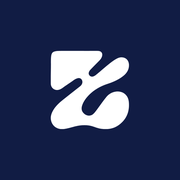
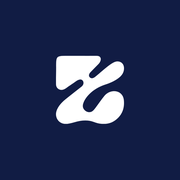
Add files via upload

diff --git a/styles.css b/styles.css
@@ -2205,3 +2205,44 @@ body[data-page="join"] { background: var(--navy); color: var(--white); }
 .mu-x:hover, .mu-x:focus-visible { opacity: .8; }
 @media (max-width: 800px) { .mu-tile { border-radius: 16px; } .mu-mail input { padding: 0 16px; } }
 #dash .tile:hover { background: var(--white); border-color: var(--navy); }
+
+/* ==========================================================================
+   Contrast pass. Every state pairs navy on light or white on navy. No honey on progress, no tinted labels over photos.
+   ========================================================================== */
+/* Ministries: rest is tint with navy text. Hover, focus and open are navy with white text (text colour is set on the parts too). */
+.mini { background: var(--honey-t); color: var(--navy); border: 1px solid var(--tint-line); }
+.mini:hover, .mini:focus-visible, .mini.on, .mini[aria-expanded="true"] { background: var(--navy); color: var(--white); border-color: var(--navy); }
+.mini:hover *, .mini:focus-visible *, .mini.on *, .mini[aria-expanded="true"] * { color: var(--white); }
+.mini[aria-expanded="true"] { border-width: 1px; }
+/* Close buttons: white disc, navy cross. Hover: pale grey disc, navy cross. */
+.mu-x, .close-pane, dialog .close, dialog#wl-modal .close { background: var(--white); color: var(--navy); border: 1px solid var(--navy); opacity: 1; }
+.mu-x:hover, .mu-x:focus-visible, .close-pane:hover, dialog .close:hover, dialog .close:focus-visible, dialog#wl-modal .close:hover { background: #e7e9f0; color: var(--navy); opacity: 1; }
+/* Progress: navy fill on a neutral light track. */
+.r-bar div, .wl-track, .r-bi .t { background: #e7e9f0; }
+.r-bar i, .wl-track i, .progress { background: var(--navy); }
+/* Avatar: white disc, navy initials. */
+.dash-avatar, #dash .dash-avatar { background: var(--white); color: var(--navy); }
+/* Tier labels sit directly on photos as plain white text. */
+.hs-card.tier .what { background: none; border: 0; border-radius: 0; padding: 0; color: var(--white); }
+/* Tags carry the Z shape: one square corner, the rest rounded. Buttons stay pills. Tags are never clickable. */
+.badge, details.facet > summary em, .tag-soon, .memo-tag, .sg-tag, .tag-z {
+  display: inline-block; background: var(--white); color: var(--navy); border: 1px solid var(--navy); border-radius: var(--shape);
+  padding: 4px 12px; font-size: var(--t-xs); font-weight: 600; letter-spacing: .02em; line-height: 1.4; text-transform: none;
+}
+.badge.paid { background: var(--white); }
+.tint .tag-soon, .plain-list > div .tag-soon { background: var(--white); }
+.hs-card .tag-soon, .ap-txt .tag-soon, .sg-sealed .tag-soon { background: var(--white); color: var(--navy); border-color: var(--white); }
+/* Waitlist page: lighter headline and caption, logo grows with the scroll and is full size by the middle. */
+.mu-count-row span { font-size: 13px; }
+.mu-core { --mw: calc(clamp(72px, 6.5vw, 104px) * (1 + 2.1 * min(var(--p) * 2, 1))); --mh: calc(var(--mw) * .19); }
+.mu-mark { width: var(--mw); max-width: calc(100vw - 80px); }
+/* Active tabs and filters stay navy with white text in every state. */
+.d-sub a.on, .d-sub a.on:hover, .d-sub a.on:focus-visible, .cats a.on, .cats a.on:hover, .cats a.on:focus-visible, a.on:hover, a.on:focus-visible { background: var(--navy); color: var(--white); }
+/* Waitlist scroll arrow: white disc, navy arrow, readable over the photo and over white. */
+.mu-down { display: grid; place-items: center; width: 48px; height: 48px; padding: 0; border-radius: 50%; background: var(--white); color: var(--navy); border: 1px solid var(--navy); }
+.mu-down:hover, .mu-down:focus-visible { background: var(--navy); color: var(--white); }
+/* Footer buttons: hover and focus are navy with white text for every variant. */
+.site-footer a.btn:hover, .site-footer a.btn:focus-visible, .site-footer a.btn.light:hover, .site-footer a.btn.light:focus-visible { background: var(--navy); border-color: var(--navy); color: var(--white) !important; }
+
+.sr { position: absolute; width: 1px; height: 1px; overflow: hidden; clip: rect(0 0 0 0); white-space: nowrap; }
+.sg-tag, .memo-tag { margin: 0 0 16px; }

diff --git a/build.js b/build.js
@@ -959,7 +959,7 @@ function waitlistPage() {
 <section class="mu-hero" id="top">
   <div class="mu-sky">${wlSky ? `<img src="/assets/waitlist-sky.${wlSky.ext}" alt="" fetchpriority="high">` : ""}</div>
   <div class="mu-hero-in">
-    <h1 class="mu-h1 mu-in" style="--d:.5s">${T("waitlist.headline", "Zi Republic is about to open its borders&hellip;")}</h1>
+    <h1 class="sr">${T("waitlist.headline", "Zi Republic is about to open its borders&hellip;")}</h1>
     <div class="mu-count mu-in" style="--d:.8s" data-jn-count data-date="${TR("join.count-date", "2027-04-18")}" role="timer" aria-label="${esc(TR("join.count-label", "Countdown to 18 April 2027"))}">
       <div class="mu-count-row">
         <div><b data-u="d">00</b><span>${T("join.count-days", "Days")}</span></div><i>:</i>
@@ -979,7 +979,6 @@ function waitlistPage() {
     <div class="mu-grid" aria-hidden="false">${tiles}</div>
     <div class="mu-core">
       <img class="mu-mark" src="/assets/logo-wordmark-navy.png" alt="Zibura" width="636" height="120">
-      <p class="mu-tag">${T("waitlist.tagline", "Be the first through the door when the capsule collection opens.")}</p>
       <form class="mu-mail" novalidate data-mu-mail>
         <label class="sr" for="mu-email">${T("forms.email", "Email")}</label>
         <input id="mu-email" type="email" name="email" autocomplete="email" placeholder="${esc(TR("waitlist.placeholder", "your@email.com"))}" required>

diff --git a/CHANGELOG_QA.md b/CHANGELOG_QA.md
@@ -52,3 +52,16 @@ Format: file and location | old | new | reason
 - Home hero title breaks into "Your expression," and "your world." on every width. Verified at 320 to 1920 px.
 - Icons, favicons and share image regenerated with the mark at about 46 to 58% of the tile so the boundary shows.
 - Checks: no horizontal overflow on 15 pages at 11 widths; regression passes; accessibility 0 violations on tested pages. Safari not tested.
+
+## 38. Contrast pass
+- Audit script hovers, focuses and opens every interactive element on the main pages and measures text against its real background. Result: 0 failures after fixes.
+- Fixed: Ministries cards (hover, focus, open are navy with white text), modal close buttons (light disc, navy cross), active tabs (stay navy with white text on hover), waitlist scroll arrow (white disc, navy arrow), footer buttons (navy with white text on hover).
+- Progress bars and tracks: navy fill on neutral light grey. No honey on any progress. Avatar is a white disc with navy initials.
+- Tier labels on photos are plain white text, no background.
+- Tags (non clickable labels) use the Z shape: white fill, navy text, navy border, one square corner. Buttons remain pills.
+- Waitlist: logo grows with scroll and is full size by the middle of the scroll. Headline, countdown and caption are lighter.
+- Icons, favicons and share image: mark reduced to 38 to 46% of the tile for more space around it.
+
+## 39. Waitlist and tags
+- Waitlist: removed the "Zi Republic is about to open its borders" line and the capsule collection caption. The headline remains as screen reader text. Countdown size restored.
+- Tag shape A (Z corner) confirmed: square top left corner, other corners round. Used by every non clickable label.
